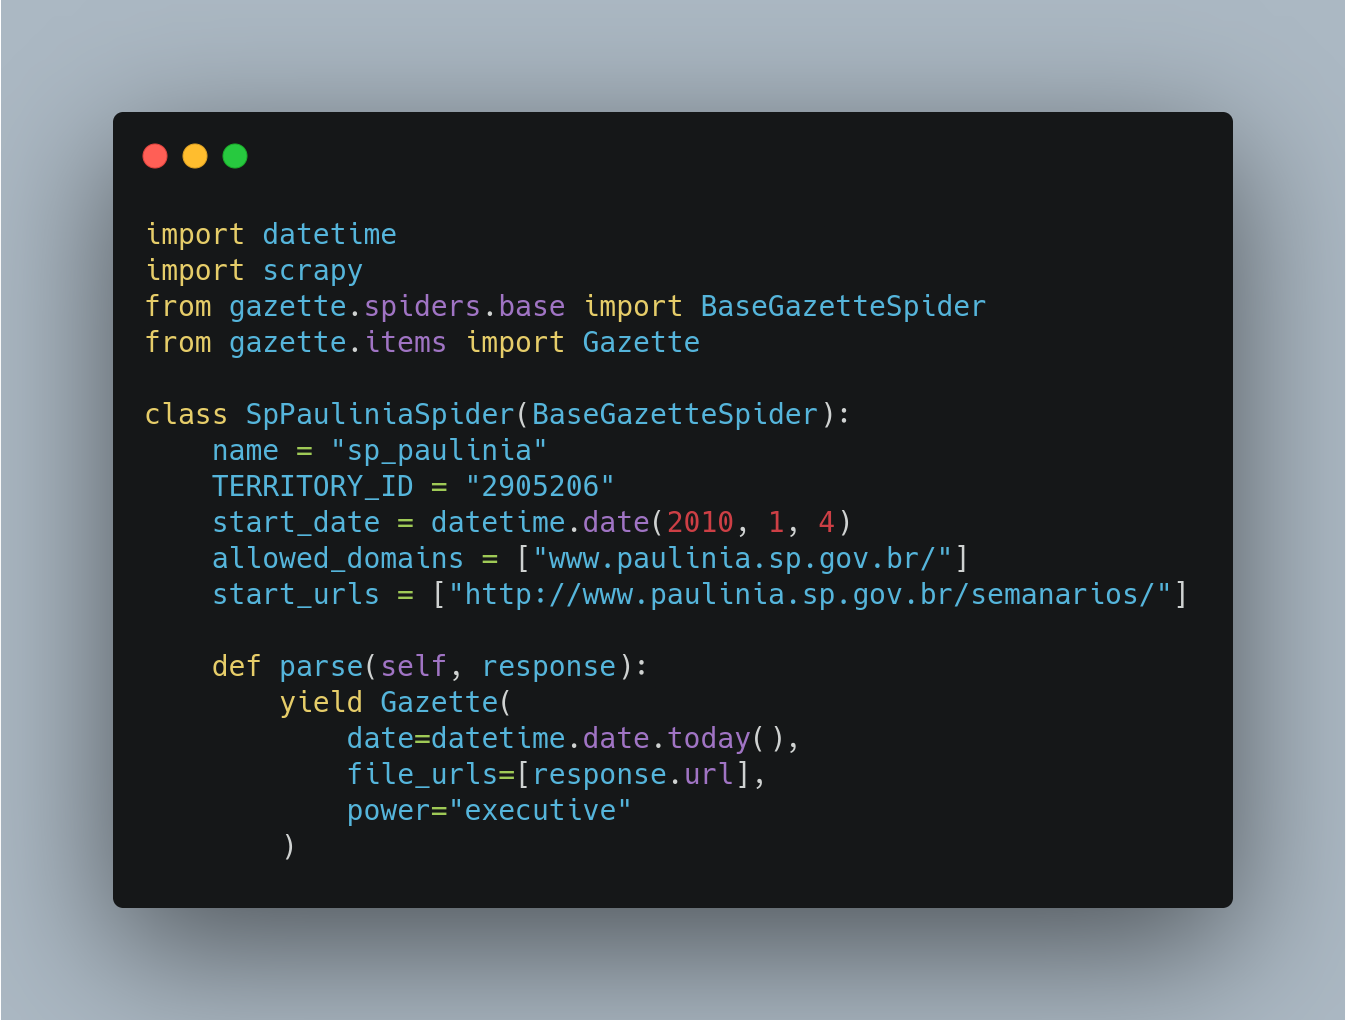
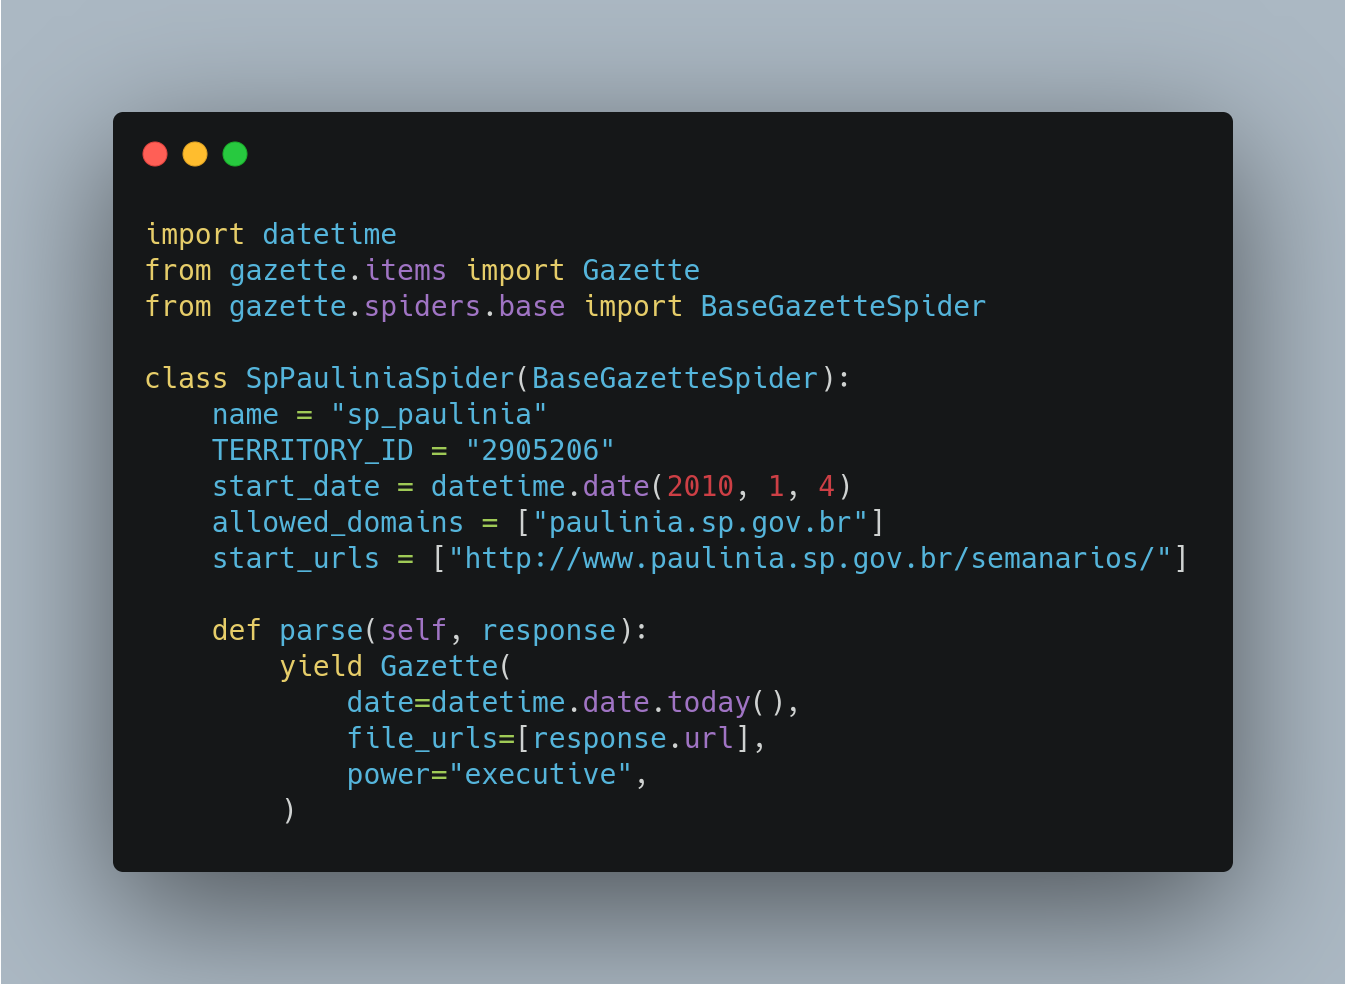
Adiciona algumas melhorias ao texto inicial

diff --git a/sp_paulinia.py b/sp_paulinia.py
@@ -1,16 +1,17 @@
 import datetime
-import scrapy
+from gazette.items import Gazette
 from gazette.spiders.base import BaseGazetteSpider
 
 class SpPauliniaSpider(BaseGazetteSpider):
     name = "sp_paulinia"
     TERRITORY_ID = "2905206"
     start_date = datetime.date(2010, 1, 4)
-    allowed_domains = ["www.paulinia.sp.gov.br/"]
+    allowed_domains = ["paulinia.sp.gov.br"]
     start_urls = ["http://www.paulinia.sp.gov.br/semanarios/"]
 
     def parse(self, response):
-        yield {
-            “date”: datetime.date.today(),
-            “file_urls”: [response.url],
-        }
+        yield Gazette(
+            date=datetime.date.today(),
+            file_urls=[response.url],
+            power="executive",
+        )

diff --git a/sp_paulinia_v2.py b/sp_paulinia_v2.py
@@ -9,7 +9,7 @@ class SpPauliniaSpider(BaseGazetteSpider):
     name = "sp_paulinia"
     TERRITORY_ID = "2905206"
     start_date = datetime.date(2010, 1, 4)
-    allowed_domains = ["www.paulinia.sp.gov.br/"]
+    allowed_domains = ["paulinia.sp.gov.br"]
     start_urls = ["http://www.paulinia.sp.gov.br/semanarios/"]
 
     def parse(self, response):
@@ -30,4 +30,4 @@ class SpPauliniaSpider(BaseGazetteSpider):
                 file_urls=[link],
                 power="executive",
             )
- 
+

diff --git a/README.md b/README.md
@@ -2,7 +2,7 @@
 
 O [Querido Diário](https://queridodiario.ok.org.br/) é um projeto de código aberto da [Open Knowledge Brasil](https://ok.org.br/) que utiliza Python e outras tecnologias para libertar informações do Diário Oficial (DO) das administrações públicas no Brasil. A iniciativa mapeia, baixa e converte todas as páginas das publicações para um formato mais acessível, a fim de facilitar a análise de dados.
 
-Neste tutorial, mostraremos algumas orientações gerais para construir um raspador e contribuir com o projeto Querido Diário. 
+Neste tutorial, mostraremos algumas orientações gerais para construir um raspador e contribuir com o projeto Querido Diário.
 
 ## 💪 Colabore com o tutorial
 
@@ -13,7 +13,7 @@ Se você prefere uma apresentação sobre o projeto em vídeo, confira o worksho
 ## 🔎 Mapeando os Diários Oficiais
 Existem formas de colaborar com o Querido Diário sem precisar programar. Você pode participar de nosso [Censo](https://censo.ok.org.br/), por exemplo, e ajudar a mapear os Diários Oficiais de todos os municípios brasileiros.
 
-Se você quiser botar a mão na massa e construir seu raspador, pode começar “adotando” uma cidade. Primeiro, encontre uma cidade que ainda não esteja listado no [arquivo CITIES.md do repositório](https://github.com/okfn-brasil/querido-diario/blob/main/CITIES.md). 
+Se você quiser botar a mão na massa e construir seu raspador, pode começar “adotando” uma cidade. Primeiro, encontre uma cidade que ainda não esteja listado no [arquivo CITIES.md do repositório](https://github.com/okfn-brasil/querido-diario/blob/main/CITIES.md).
 
 O endereço do repositório do projeto é: https://github.com/okfn-brasil/querido-diario/
 
@@ -56,7 +56,7 @@ Usuários de Windows devem executar os mesmo comandos, apenas trocando o segundo
 
 Todos os raspadores do projeto ficam na pasta [data_collection/gazette/spiders/](https://github.com/okfn-brasil/querido-diario/tree/main/data_collection/gazette/spiders). Navegue por diferentes arquivos e repare no que há de comum e diferente no código de cada um.
 
-Os nomes de todos os arquivos seguem o padrão: **uf_nomedacidade.py**. 
+Os nomes de todos os arquivos seguem o padrão: **uf_nomedacidade.py**.
 
 Ou seja, primeiro, temos a sigla da UF, seguido de underline e nome da cidade. Tudo em minúsculas, sem espaços, acentos ou caracteres especiais.
 
@@ -66,23 +66,22 @@ Veja alguns exemplos paradigmáticos de Diários Oficiais:
 
 * **Busca de datas**: outra situação comum é quando você precisa preencher um formulário e fazer uma busca de datas para acessar as publicações. É caso por exemplo do script [ba_salvador.py](https://github.com/okfn-brasil/querido-diario/blob/main/data_collection/gazette/spiders/ba_salvador.py), que raspa as informações da capital baiana.
 
-* **Consulta via APIs**: pode ser também que os dados sobre as publicações estejam disponíveis via API, já organizados em um arquivo JSON. É o caso do raspador de [Natal](https://github.com/okfn-brasil/querido-diario/blob/main/data_collection/gazette/spiders/rn_natal.py).
+* **Consulta via APIs**: pode ser também que ao analisar as requisições do site, você descubra uma API escondida, com dados dos documentos já organizadas em um arquivo JSON, por exemplo. É o caso do raspador de [Natal](https://github.com/okfn-brasil/querido-diario/blob/main/data_collection/gazette/spiders/rn_natal.py).
 
-Se você navegou pelos raspadores, talvez tenha reparado que alguns códigos possuem apenas os metadados. Neste caso, tratam-se de municípios que compartilham o mesmo sistema de publicação. Então, tratamos eles conjuntamente, como associações de municípios, ao invés de repetir o mesmo raspador em cada arquivo.
+Se você navegou pelos raspadores, talvez tenha reparado que alguns raspadores praticamente não possuem código e quase se repetem entre si. Neste caso, tratam-se de municípios que compartilham o mesmo sistema de publicação. Então, tratamos eles conjuntamente, como associações de municípios, ao invés de repetir o mesmo raspador em cada arquivo.
 
-Mas não se preocupe com isso, por ora. Vamos voltar ao nosso exemplo e ver como construir um raspador completo individualmente.
+Mas não se preocupe com isso, por ora. Vamos voltar ao nosso exemplo e ver como construir um raspador completo para apenas uma cidade.
 
 ## 🧠 Anatomia de um raspador
 
 ![Script básico, com exemplo de Paulínia](img/sp_paulinia.png)
-
 <!-- Imagem gerada no site carbon.now.sh -->
 
 Por padrão, todos os raspadores começam importando alguns pacotes. Vejamos quais são.
 
 `import datetime`: pacote para lidar com datas.
 
-`import scrapy`: quem faz quase toda mágica acontecer. É o pacote utilizado para construir nossos raspadores.
+`from gazette.items import Gazette`: item que será salvo com campos que devem/podem ser preenchidos com os metadados dos diários.
 
 `from gazette.spiders.base import BaseGazetteSpider`: é o raspador (spider) base do projeto, que já traz várias funcionalidades úteis.
 
@@ -94,21 +93,21 @@ Vejamos um exemplo a partir da cidade Paulínia em São Paulo.
 
 `name` = Nome do raspador no mesmo padrão do nome do arquivo, sem a extensão. Exemplo: `sp_paulinia`.
 
-`TERRITORY_ID` = código da cidade no IBGE. Confira a [tabela do IBGE](https://www.ibge.gov.br/explica/codigos-dos-municipios.php) para descobrir o código da sua cidade. Exemplo: `2905206`.
+`TERRITORY_ID` = código da cidade no IBGE. Confira a o arquivo [`territories.csv`](https://github.com/okfn-brasil/querido-diario/blob/main/data_collection/gazette/resources/territories.csv) do projeto para descobrir o código da sua cidade. Exemplo: `2905206`.
 
-`allowed_domains` = Domínios nos quais o raspador irá atuar. Exemplo: `["www.paulinia.sp.gov.br/"]`
+`allowed_domains` = Domínios nos quais o raspador irá atuar. Exemplo: `["paulinia.sp.gov.br"]`
 
-`start_urls` = URL de início da navegação do raspador. A resposta dessa requisição inicial é encaminhada para a variável response, do método padrão do Scrapy chamado parse. Veremos mais sobre isso em breve. Exemplo:`["http://www.paulinia.sp.gov.br/semanarios/"]`
+`start_urls` = URL de início da navegação do raspador. A resposta dessa requisição inicial é encaminhada para a variável response, do método padrão do Scrapy chamado `parse`. Veremos mais sobre isso em breve. Exemplo:`["http://www.paulinia.sp.gov.br/semanarios/"]`
 
-`start_date` = Representação de data no formato ano, mês e dia (YYYY, M, D), usando o pacote datetime. É a data inicial da publicação do Diário Oficial no sistema questão, ou seja, a data da primeira publicação disponível online. Encontre esta data pesquisando e inserindo essa data manualmente nesta variável. Exemplo: `datetime.date(2017, 4, 3)`.
+`start_date` = Representação de data no formato ano, mês e dia (YYYY, M, D), usando o pacote `datetime`. É a data inicial da publicação do Diário Oficial no sistema questão, ou seja, a data da primeira publicação disponível online. Encontre esta data pesquisando e inserindo essa data manualmente nesta variável. Exemplo: `datetime.date(2017, 4, 3)`.
 
 ### Parâmetros de saída
 
-Além disso, cada raspador também precisa retornar algumas informações por padrão. Isso acontece usando a função `yield`.
+Além disso, cada raspador também precisa retornar algumas informações por padrão. Isso acontece usando a expressão `yield`.
 
 `date` = A data da publicação em questão. Em nosso código de exemplo, definimos este parâmetro como o dia de hoje, apenas para ter uma versão básica operacional do código. Porém, ao construir um raspador real, neste parâmetro você deverá indicar as datas corretas das publicações.
 
-`file_urls` = Retorna a URL das publicações do DO. 
+`file_urls` = Retorna a URL da publicação do DO (um documento pode ter mais de uma URL, mas é raro).
 
 `power` = Aceita os parâmetros `executive` ou `executive_legislative`. Aqui, definimos se o DO tem informações apenas do poder executivo ou também do legislativo. Para definir isso, é preciso olhar manualmente nas publicações se há informações da Câmara Municipal agregadas no mesmo documento, por exemplo.
 
@@ -128,16 +127,16 @@ Então, você pode uma forma de fazer um famoso "Hello, world!" no projeto Queri
 
 Para testar um raspador e começar a desenvolver o seu, siga as seguintes etapas:
 
-1. Importe o arquivo para a pasta `data_collection/gazette/spiders/` no repositório criado no seu computador.
+1. Importe o arquivo para a pasta `data_collection/gazette/spiders/` no repositório criado no seu computador a partir do seu fork do Querido Diário.
 2. Abra o terminal nesta pasta.
 3. Ative o ambiente virtual, caso não tenha feito antes. Rode `source .venv/bin/activate` ou o comando adequado na pasta onde o ambiente foi criado.
 4. No terminal, rode o raspador com o comando `scrapy crawl nomedoraspador`. Ou seja, no exemplo rodamos: `scrapy crawl sp_paulinia`.
 
 # 📄 Dissecando o arquivo log
 
-Se tudo deu certo, deve aparecer um arquivo de log enorme terminal. 
+Se tudo deu certo, deve aparecer um arquivo de log enorme terminal.
 
-Ele começa com **[scrapy.utils.log] INFO: Scrapy 2.4.1 started (bot: gazette)** e traz uma série de informações sobre o ambiente inicialmente. Mas a parte que mais nos interessa começa apenas após a linha **[scrapy.core.engine] INFO: Spider opened** e termina na linha **[scrapy.core.engine] INFO: Closing spider (finished)**. Vejamos abaixo.
+Ele começa com `[scrapy.utils.log] INFO: Scrapy 2.4.1 started (bot: gazette)` e traz uma série de informações sobre o ambiente inicialmente. Mas a parte que mais nos interessa começa apenas após a linha `[scrapy.core.engine] INFO: Spider opened` e termina na linha `[scrapy.core.engine] INFO: Closing spider (finished)`. Vejamos abaixo.
 
 ![](img/output1.png)
 
@@ -176,10 +175,10 @@ Primeiro, identifique um seletor que retorne todas as publicações separadament
 Para testar os seletores e construir o raspador, você pode utilizar algumas destas alternativas:
 
 * Inspetor Web: disponível nos navegadores, permite a busca por seletores XPath.
-  
+
 * Scrapy shell: você também pode testar seus seletores usando o Scrapy Shell. Experimente rodar por exemplo `scrapy shell "http://www.paulinia.sp.gov.br/semanarios"`. Neste terminal, você pode rodar códigos como `response.xpath("//div[@class='container body-content']//div[@class='row']//a[contains(@href, 'AbreSemanario')]")` e ver os resultados.
 
-* Python debuger: insira a linha `import pdb; pdb.set_trace()` em meio a um loop para testar seu código durante a execução.
+* Python debuger: insira a linha `import pdb; pdb.set_trace()` em qualquer parte do código que será executado para inspecionar seu código (contexto, variáveis, etc.) durante a execução.
 
 # Enviando sua contribuição
 
